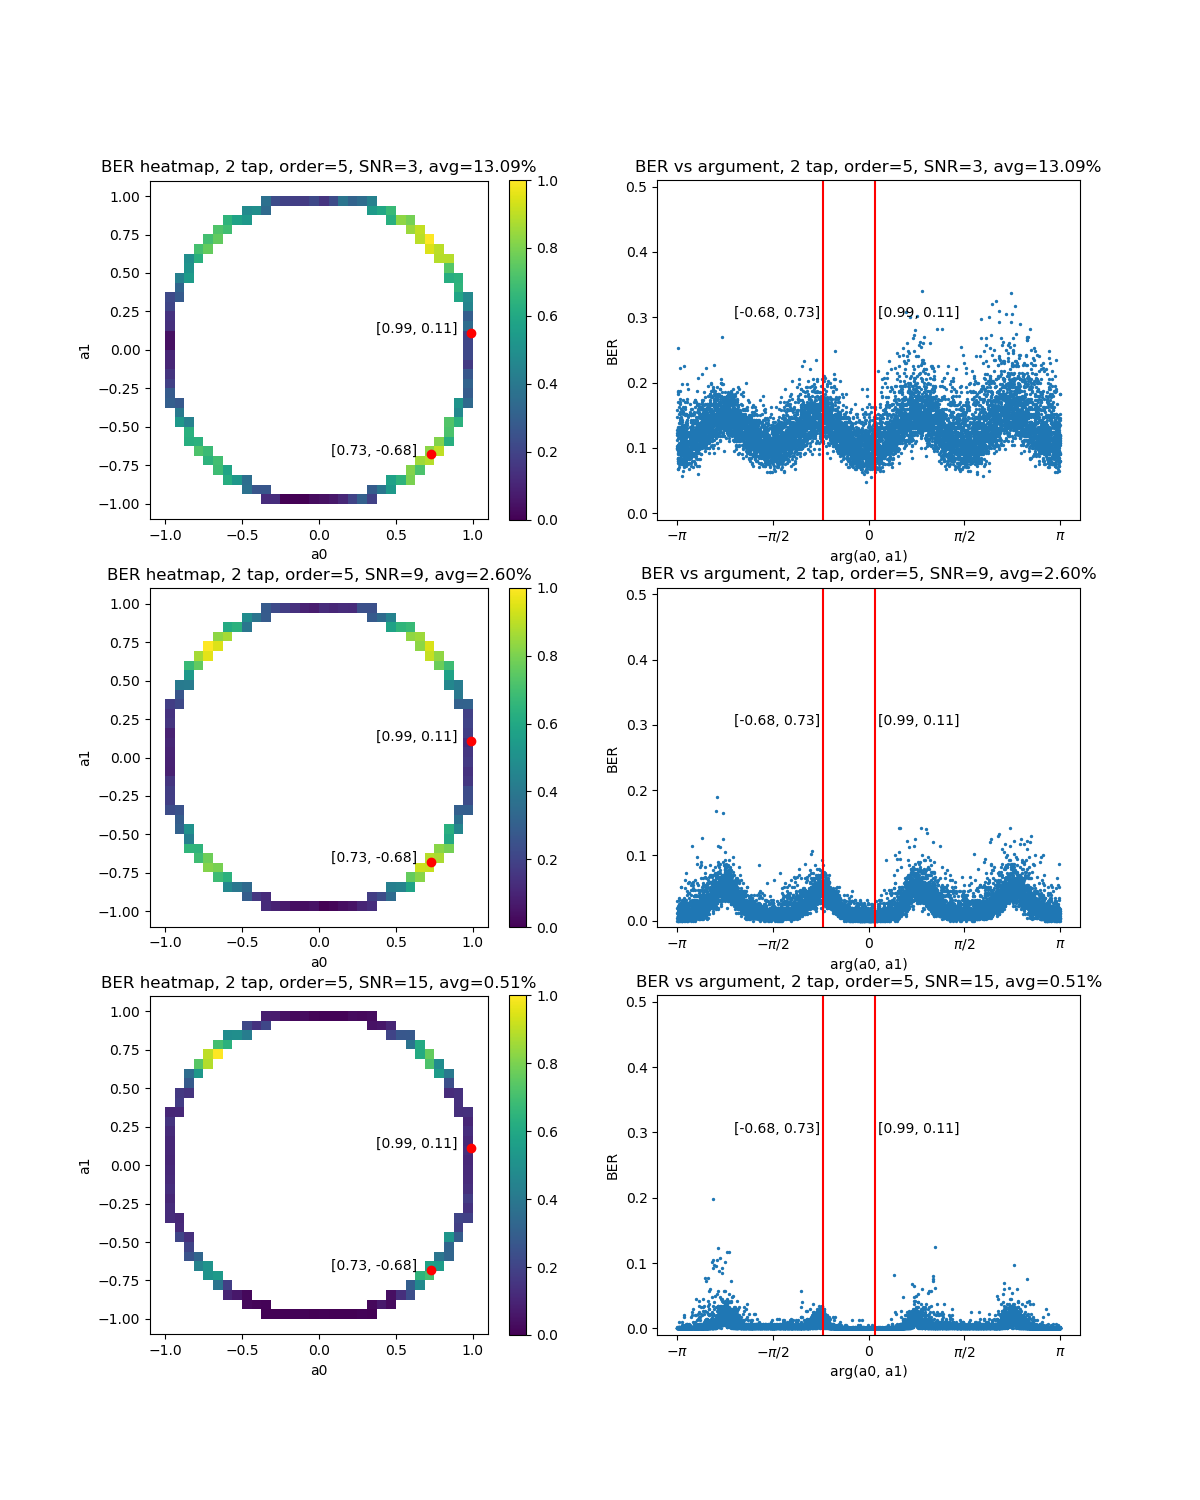
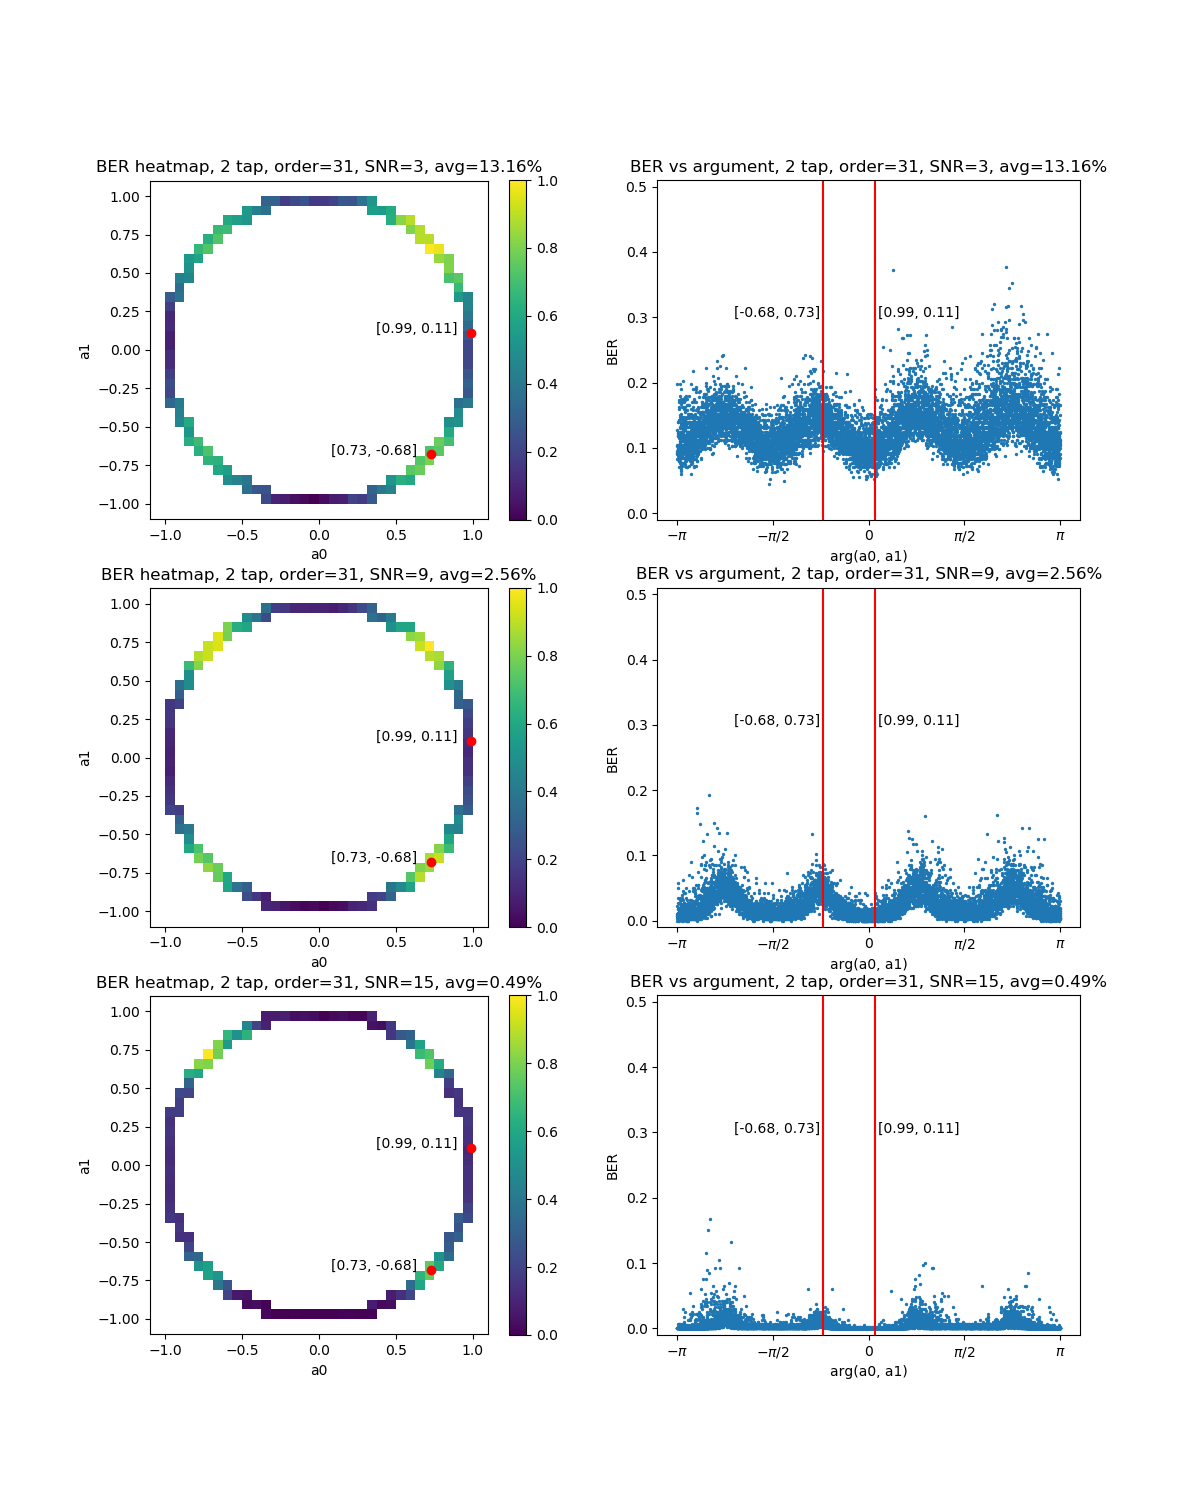
update figures

diff --git a/bad-channels.py b/bad-channels.py
@@ -28,7 +28,7 @@ if __name__ == "__main__":
         avg = np.mean(bers)
         
         plt.subplot(len(snrs) * 100 + 21 + idx * 2)
-        plt.title('BER heatmap, 2 tap, order=5, SNR={}, avg={:.2%}'.format(snr, avg))
+        plt.title('BER heatmap, 2 tap, order=31, SNR={}, avg={:.2%}'.format(snr, avg))
         plt.xlabel('a0')
         plt.ylabel('a1')
         H1, xe, ye = np.histogram2d(taps[..., 0], taps[..., 1], 32, weights=bers)
@@ -45,7 +45,7 @@ if __name__ == "__main__":
 
         plt.subplot(len(snrs) * 100 + 22 + idx * 2)
         ang = np.arctan2(taps[..., 1], taps[..., 0])
-        plt.title('BER vs argument, 2 tap, order=5, SNR={}, avg={:.2%}'.format(snr, avg))
+        plt.title('BER vs argument, 2 tap, order=31, SNR={}, avg={:.2%}'.format(snr, avg))
         plt.xlabel('arg(a0, a1)')
         plt.ylim(-0.01, 0.51)
         plt.annotate("[0.99, 0.11]", (np.arctan2(0.11, 0.99) + 0.05, 0.3))

diff --git a/modelBank.py b/modelBank.py
@@ -2,7 +2,7 @@ import torch
 from equalizer.model.classic import ZeroForcingEstimator, MMSEEstimator, LMSEstimator, FilterEqualizer, ClassicTap, DummyTap
 from equalizer.model.tap import TapEstimator, CNNEstimator, HybridLmsEstimator
 
-path_cnn = 'model/cnn-est.bin'
+path_cnn = 'model/cnn-est-5.bin'
 path_cnn_31 = 'model/cnn-est-31.bin'
 path_cnn_zf = 'model/cnn-est-zf.bin'
 
